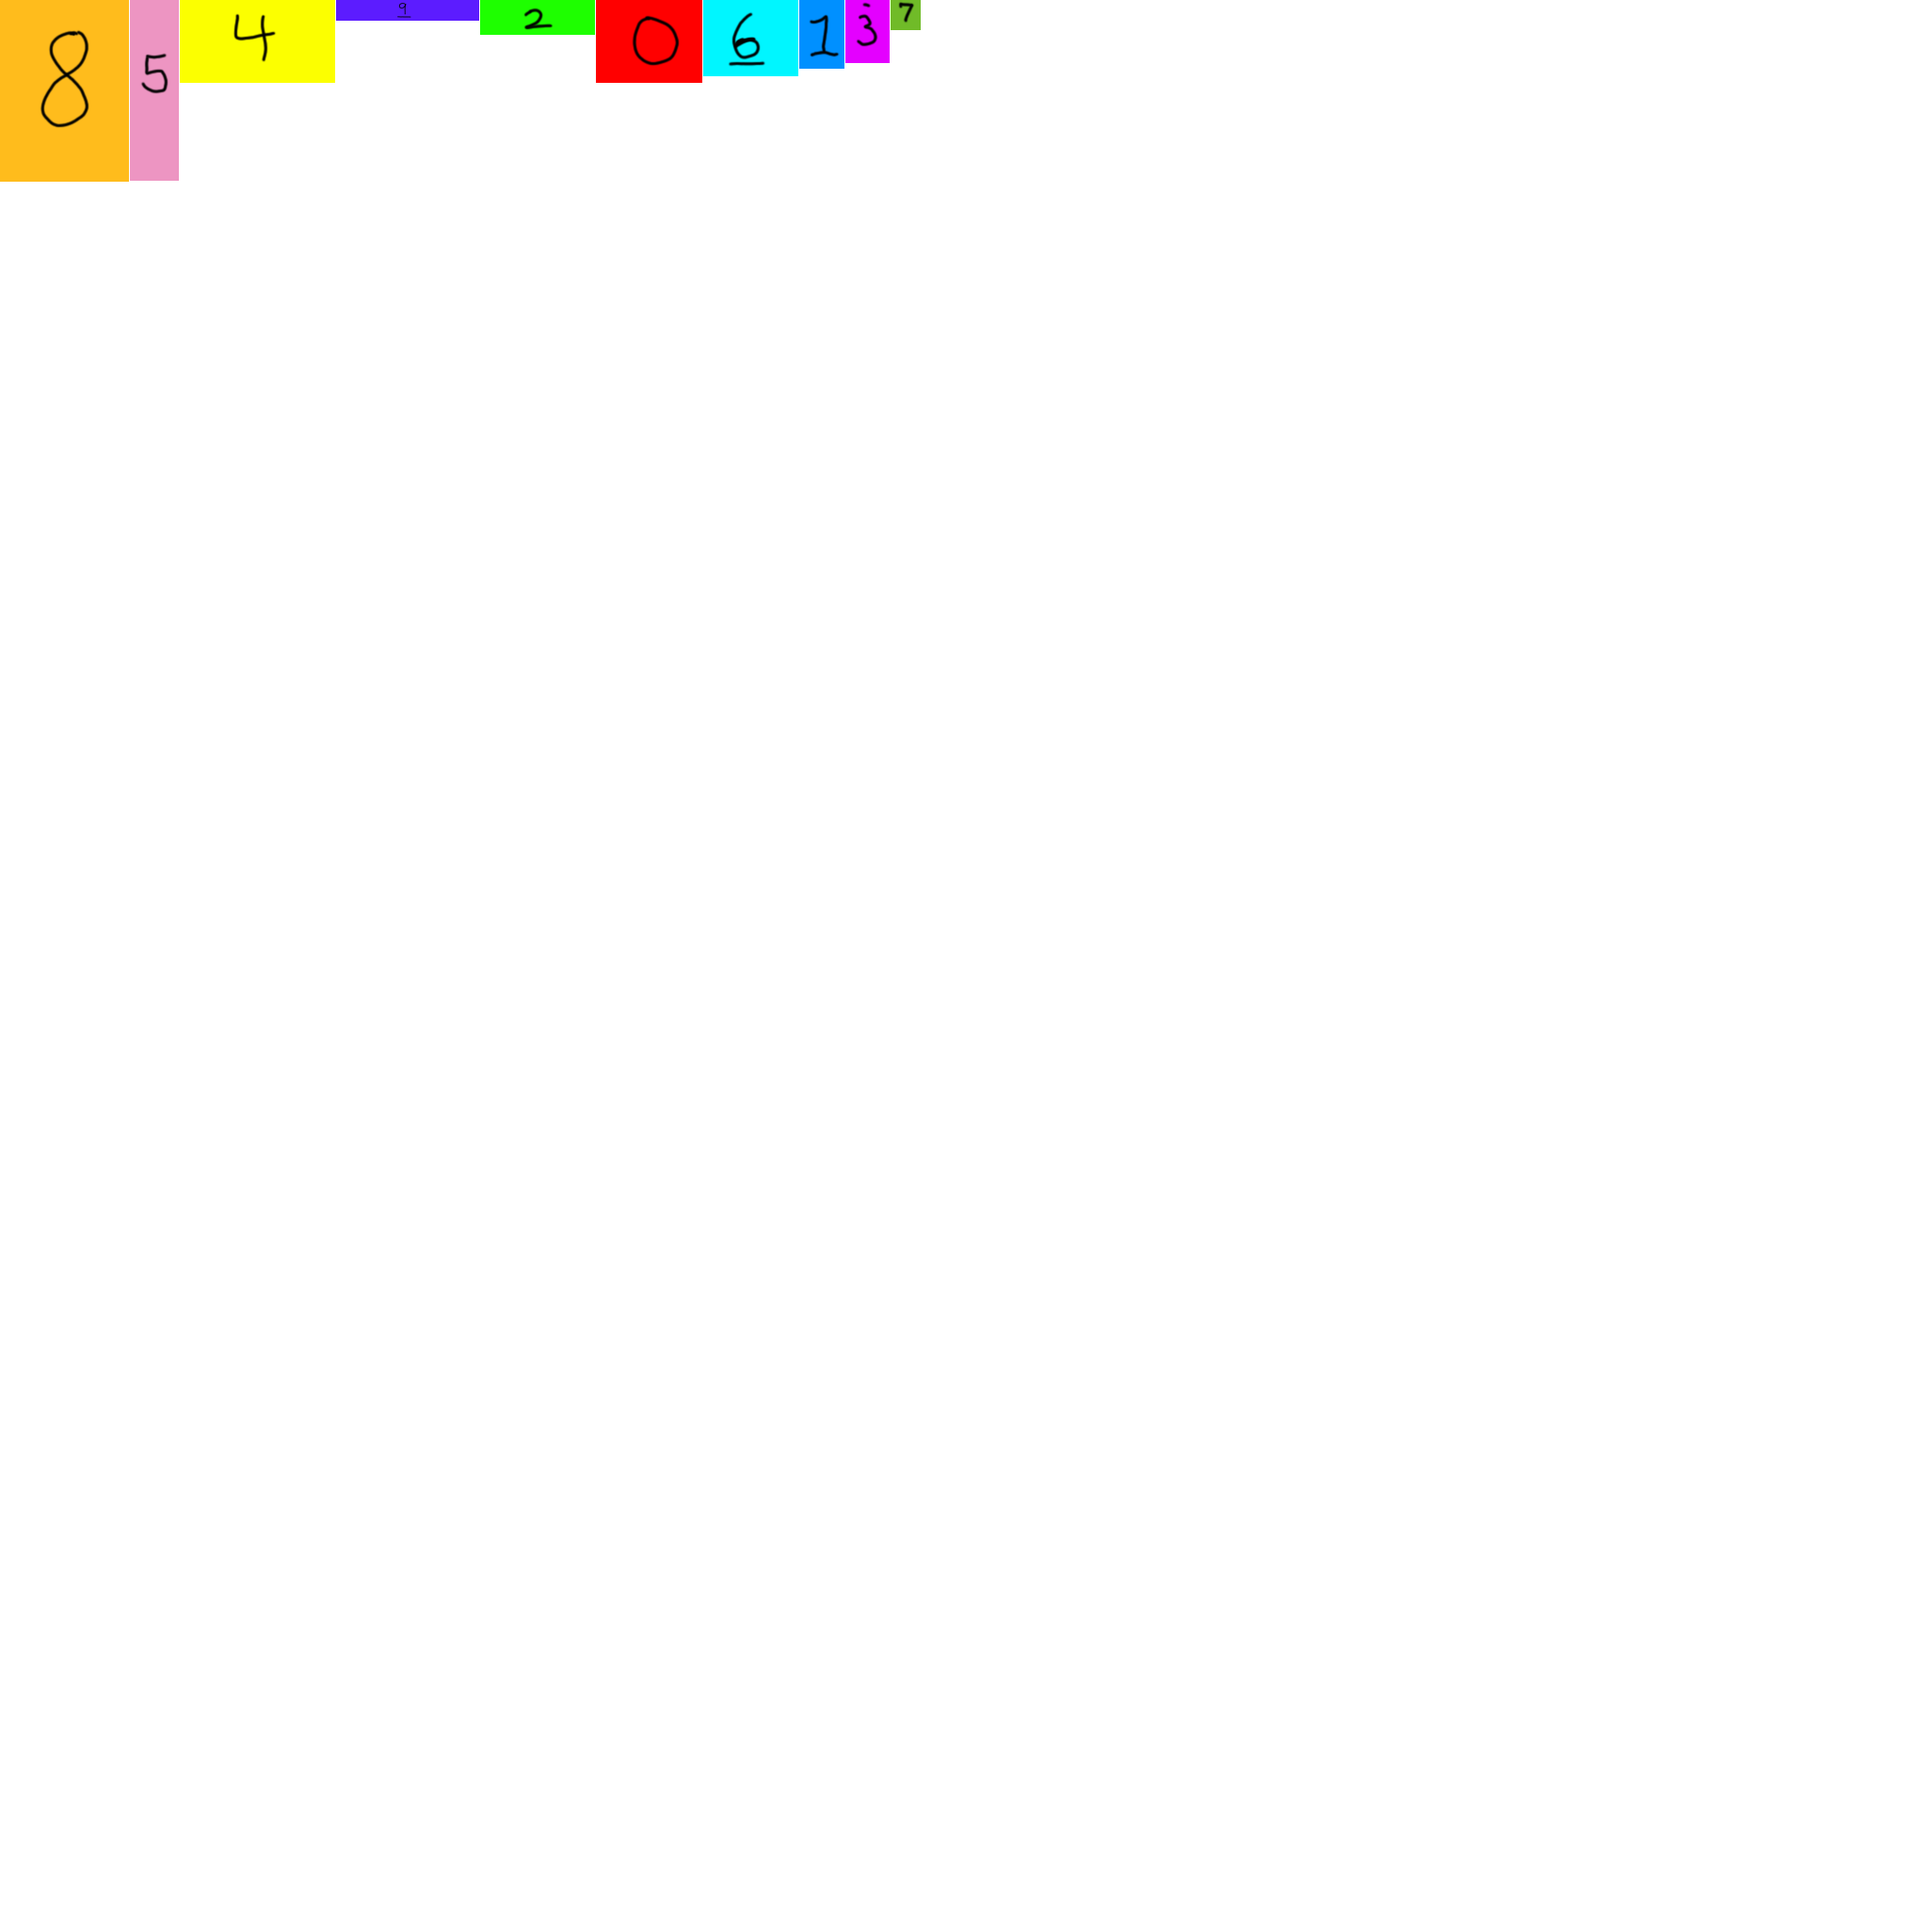
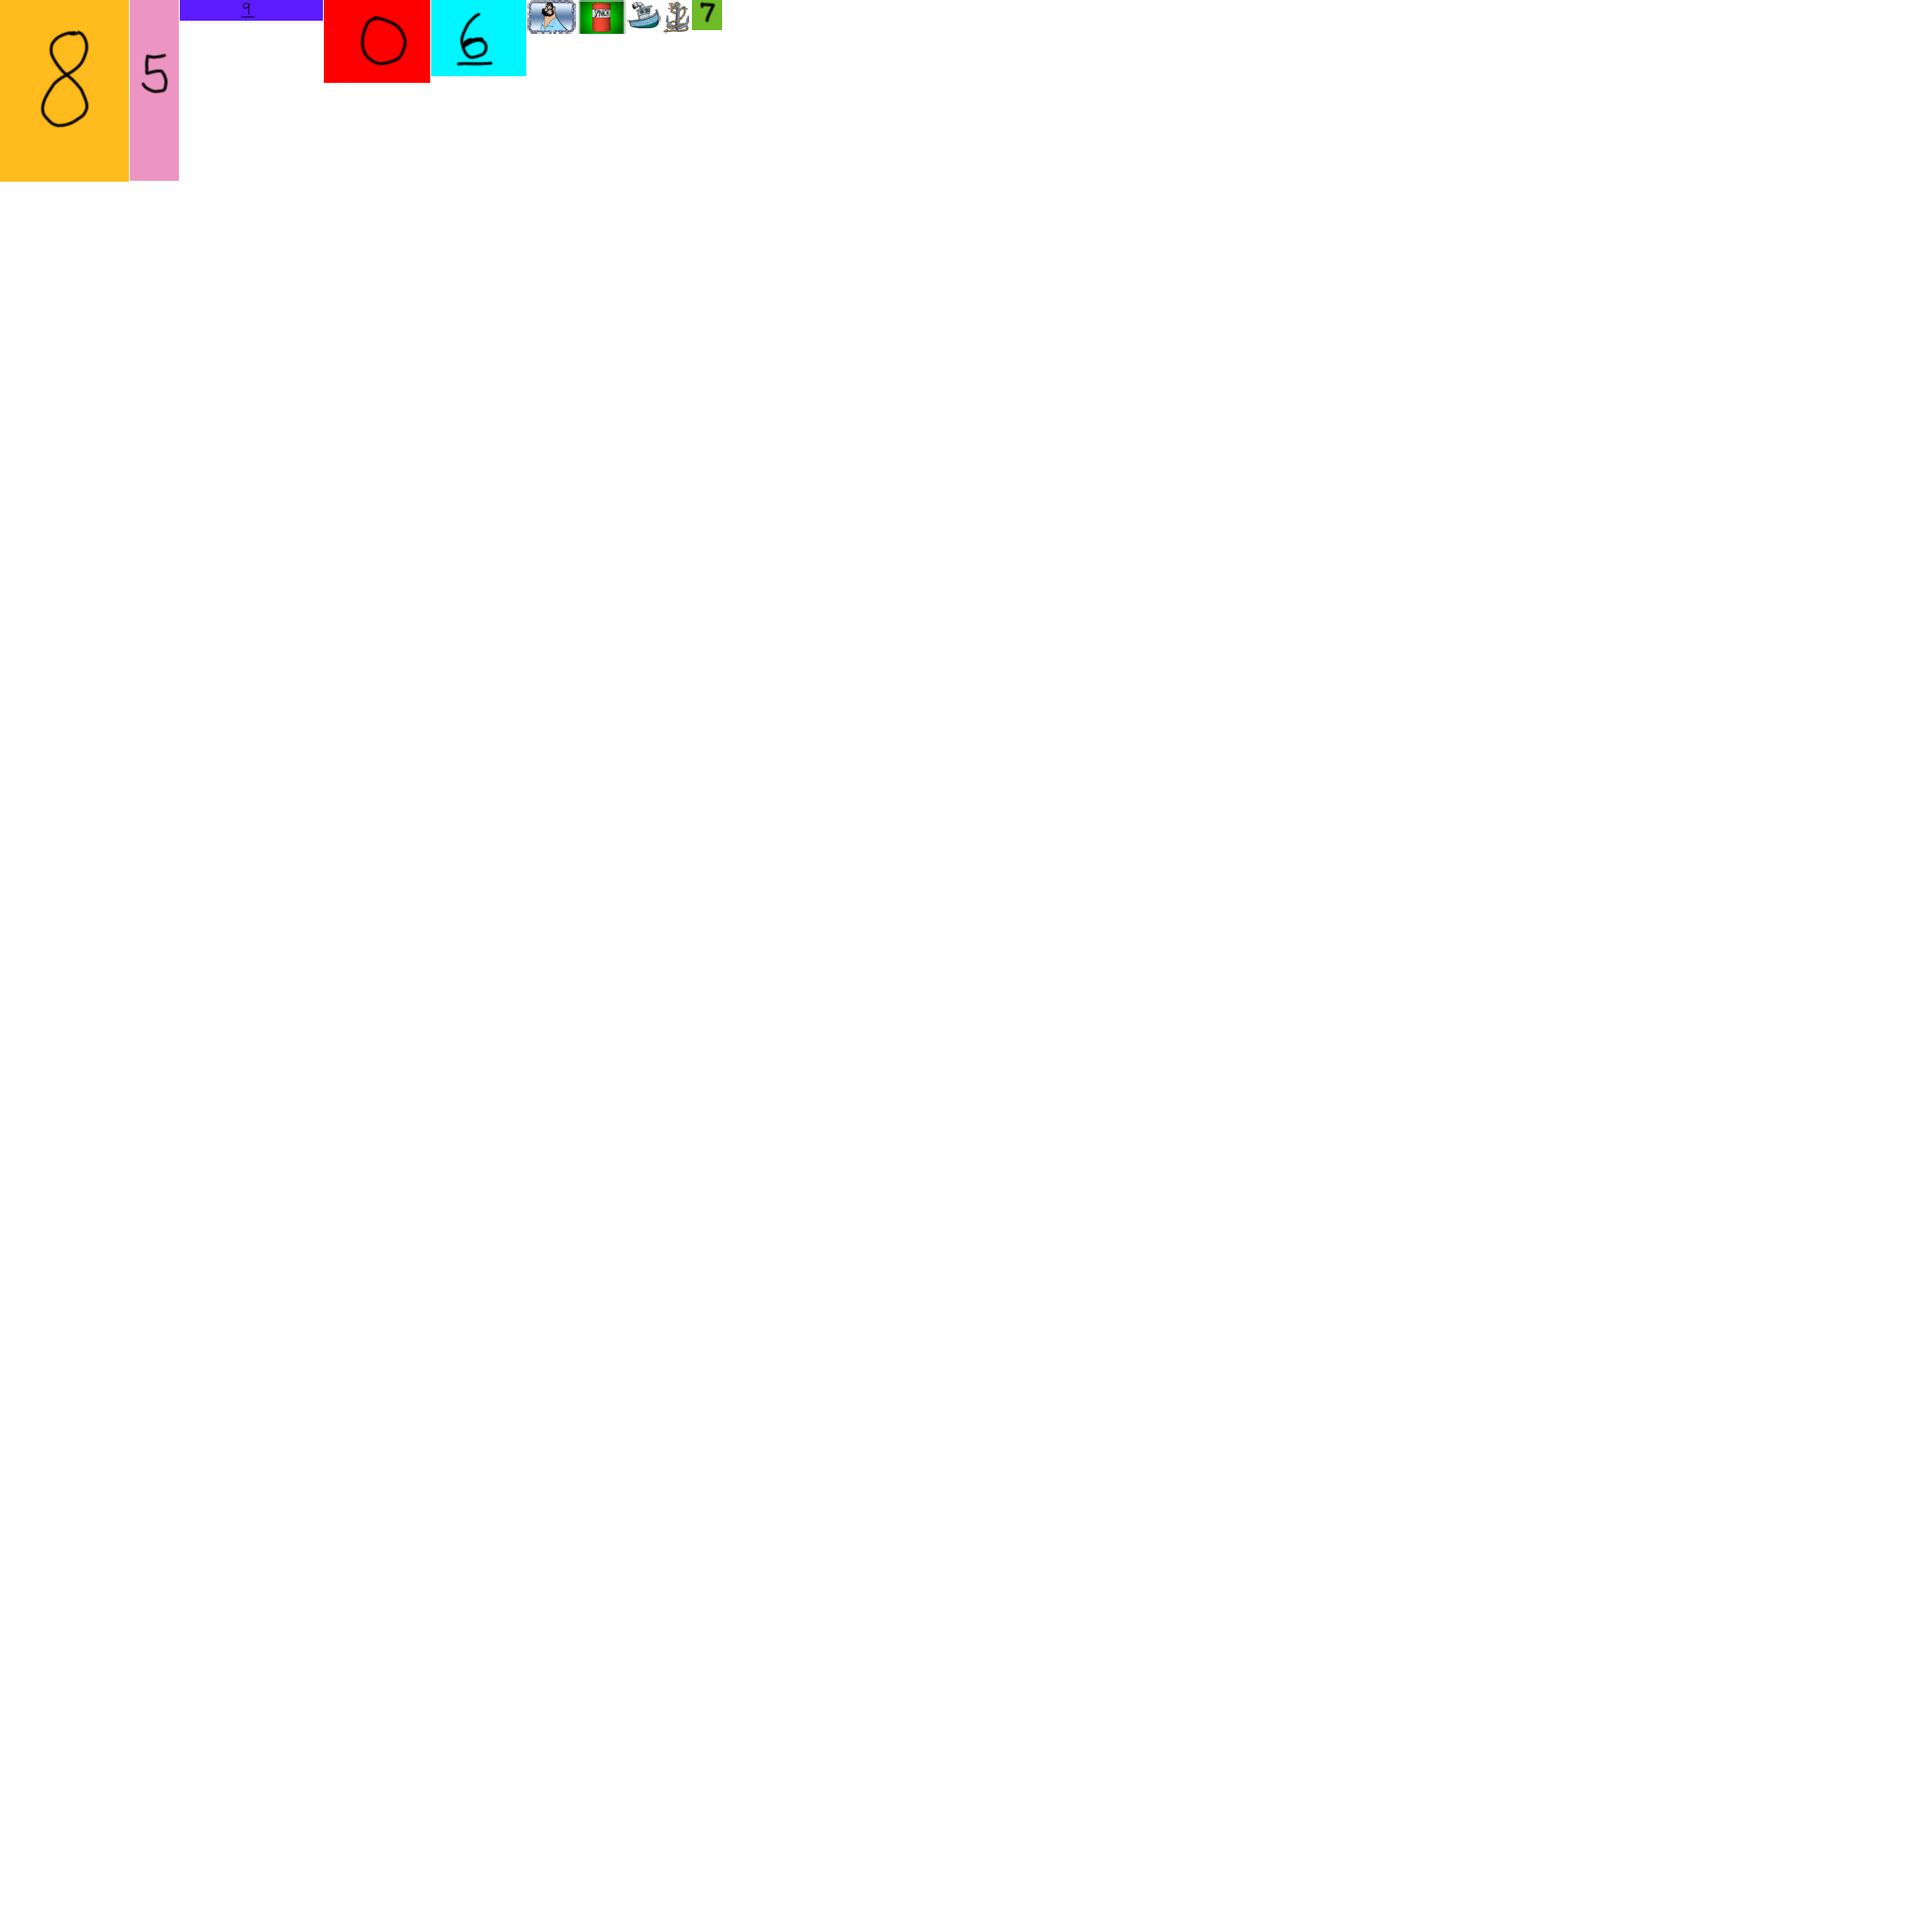
Symbol replacement working and fixed save actions getting removed when refreshing project

Changed region(s): [[0.0938, 0.0, 0.5, 0.0625]]

diff --git a/DesignerTool/src/WidgetAtlasGroup.cpp b/DesignerTool/src/WidgetAtlasGroup.cpp
@@ -41,11 +41,11 @@ WidgetAtlasGroup::WidgetAtlasGroup(QDir metaDir, QDir dataDir, WidgetAtlasManage
 {    
     ui->setupUi(this);
     
+    ui->actionDeleteImages->setEnabled(false);
     ui->btnDeleteImages->setDefaultAction(ui->actionDeleteImages);
-    ui->btnDeleteImages->setEnabled(false);
     
+    ui->actionReplaceImages->setEnabled(false);
     ui->btnReplaceImages->setDefaultAction(ui->actionReplaceImages);
-    ui->btnReplaceImages->setEnabled(false);
 
     ui->atlasList->setSelectionMode(QAbstractItemView::MultiSelection);
     ui->atlasList->setHorizontalScrollBarPolicy(Qt::ScrollBarAlwaysOff);
@@ -395,12 +395,6 @@ void WidgetAtlasGroup::Refresh()
         frameObj.insert("cropRight", QJsonValue(pFrame->GetCrop().right()));
         frameObj.insert("cropBottom", QJsonValue(pFrame->GetCrop().bottom()));
 
-//        QJsonArray frameLinksArray;
-//        QStringList sLinks = pFrame->GetLinks();
-//        for(int i = 0; i < sLinks.size(); ++i)
-//            frameLinksArray.append(QJsonValue(sLinks[i]));
-//        frameObj.insert("links", QJsonValue(frameLinksArray));
-
         frameArray.append(QJsonValue(frameObj));
 
         if(bValid == false)
@@ -622,15 +616,29 @@ void WidgetAtlasGroup::on_actionDeleteImages_triggered()
 
 void WidgetAtlasGroup::on_actionReplaceImages_triggered()
 {
-    QList<QTreeWidgetItem *> selectedImageList = ui->atlasList->selectedItems();
+    QList<QTreeWidgetItem *> atlasSelectedImageList = ui->atlasList->selectedItems();
+
+    // Store a list of the frames, since 'atlasSelectedImageList' will become invalid within Refresh()
+    QList<HyGuiFrame *> selectedImageList;
+    for(int i = 0; i < atlasSelectedImageList.count(); ++i)
+        selectedImageList.append(atlasSelectedImageList[i]->data(0, Qt::UserRole).value<HyGuiFrame *>());
 
     QFileDialog dlg(this);
-    dlg.setFileMode(QFileDialog::Directory);
+
+    if(selectedImageList.count() == 1)
+    {
+        dlg.setFileMode(QFileDialog::ExistingFile);
+        dlg.setWindowTitle("Select an image as the replacement");
+    }
+    else
+    {
+        dlg.setFileMode(QFileDialog::ExistingFiles);
+        dlg.setWindowTitle("Select " % QString::number(selectedImageList.count()) % " images as replacements");
+    }
     dlg.setWindowModality(Qt::ApplicationModal);
     dlg.setModal(true);
-    //dlg.setCaption("Select " % QString::number(selectedItems.count()) % " image(s) to be replaced");
     QStringList sFilterList;
-    sFilterList << "*.*" << "*.png";
+    sFilterList << "*.png" << "*.*";
     dlg.setNameFilters(sFilterList);
 
     QStringList sImportImgList;
@@ -648,20 +656,16 @@ void WidgetAtlasGroup::on_actionReplaceImages_triggered()
 
     for(int i = 0; i < selectedImageList.count(); ++i)
     {
-        HyGuiFrame *pFrame = selectedImageList[i]->data(0, Qt::UserRole).value<HyGuiFrame *>();
-
-        HyGuiLog("Replacing: " % pFrame->GetName() % " -> " % sImportImgList[i], LOGTYPE_Info);
-        pFrame->ReplaceImage(sImportImgList[i], m_MetaDir);
+        HyGuiLog("Replacing: " % selectedImageList[i]->GetName() % " -> " % sImportImgList[i], LOGTYPE_Info);
+        selectedImageList[i]->ReplaceImage(sImportImgList[i], m_MetaDir);
     }
 
     Refresh();
 
     for(int i = 0; i < selectedImageList.count(); ++i)
     {
-        HyGuiFrame *pFrame = selectedImageList[i]->data(0, Qt::UserRole).value<HyGuiFrame *>();
-
-        QSet<ItemWidget *> sLinks = pFrame->GetLinks();
+        QSet<ItemWidget *> sLinks = selectedImageList[i]->GetLinks();
         for(QSet<ItemWidget *>::iterator LinksIter = sLinks.begin(); LinksIter != sLinks.end(); ++LinksIter)
-            (*LinksIter)->Relink(pFrame);
+            (*LinksIter)->Relink(selectedImageList[i]);
     }
 }

diff --git a/DesignerTool/src/MainWindow.cpp b/DesignerTool/src/MainWindow.cpp
@@ -263,11 +263,14 @@ void MainWindow::showEvent(QShowEvent *pEvent)
         
         // Replace the save actions in the 'File' menu
         QList<QAction *> projSaveActionList = sm_pInstance->m_pCurSelectedProj->GetSaveActions();
-        sm_pInstance->ui->menu_File->insertActions(sm_pInstance->m_pCurSaveAction, projSaveActionList);
-        sm_pInstance->ui->menu_File->removeAction(sm_pInstance->m_pCurSaveAction);
-        sm_pInstance->ui->menu_File->removeAction(sm_pInstance->m_pCurSaveAllAction);
-        sm_pInstance->m_pCurSaveAction = projSaveActionList[0];
-        sm_pInstance->m_pCurSaveAllAction = projSaveActionList[1];
+        if(sm_pInstance->m_pCurSaveAction != projSaveActionList[0])
+        {
+            sm_pInstance->ui->menu_File->insertActions(sm_pInstance->m_pCurSaveAction, projSaveActionList);
+            sm_pInstance->ui->menu_File->removeAction(sm_pInstance->m_pCurSaveAction);
+            sm_pInstance->ui->menu_File->removeAction(sm_pInstance->m_pCurSaveAllAction);
+            sm_pInstance->m_pCurSaveAction = projSaveActionList[0];
+            sm_pInstance->m_pCurSaveAllAction = projSaveActionList[1];
+        }
     }
 
     // Swap the harmony engine renderers

diff --git a/DesignerTool/src/WidgetSpriteModelView.cpp b/DesignerTool/src/WidgetSpriteModelView.cpp
@@ -134,7 +134,7 @@ WidgetSpriteModel::WidgetSpriteModel(QObject *parent) : QAbstractTableModel(pare
 {
 }
 
-void WidgetSpriteModel::Add(HyGuiFrame *pFrame)
+int WidgetSpriteModel::Add(HyGuiFrame *pFrame)
 {
     SpriteFrame *pFrameToInsert = NULL;
 
@@ -151,6 +151,8 @@ void WidgetSpriteModel::Add(HyGuiFrame *pFrame)
     beginInsertRows(QModelIndex(), pFrameToInsert->m_iRowIndex, pFrameToInsert->m_iRowIndex);
     m_FramesList.insert(pFrameToInsert->m_iRowIndex, pFrameToInsert);
     endInsertRows();
+
+    return pFrameToInsert->m_iRowIndex;
 }
 
 void WidgetSpriteModel::Remove(HyGuiFrame *pFrame)

diff --git a/DesignerTool/src/WidgetSpriteState.cpp b/DesignerTool/src/WidgetSpriteState.cpp
@@ -64,8 +64,8 @@ void WidgetSpriteState::SetName(QString sNewName)
 
 void WidgetSpriteState::InsertFrame(HyGuiFrame *pFrame)
 {
-    m_pSpriteFramesModel->Add(pFrame);
-    ui->framesView->selectRow(0);
+    int iRowIndex = m_pSpriteFramesModel->Add(pFrame);
+    ui->framesView->selectRow(iRowIndex);
 }
 
 void WidgetSpriteState::RefreshFrame(HyGuiFrame *pFrame)

diff --git a/DesignerTool/src/WidgetSpriteModelView.h b/DesignerTool/src/WidgetSpriteModelView.h
@@ -70,7 +70,7 @@ public:
 
     WidgetSpriteModel(QObject *pParent);
 
-    void Add(HyGuiFrame *pFrame);
+    int Add(HyGuiFrame *pFrame);
     void Remove(HyGuiFrame *pFrame);
     void MoveRowUp(int iIndex);
     void MoveRowDown(int iIndex);
